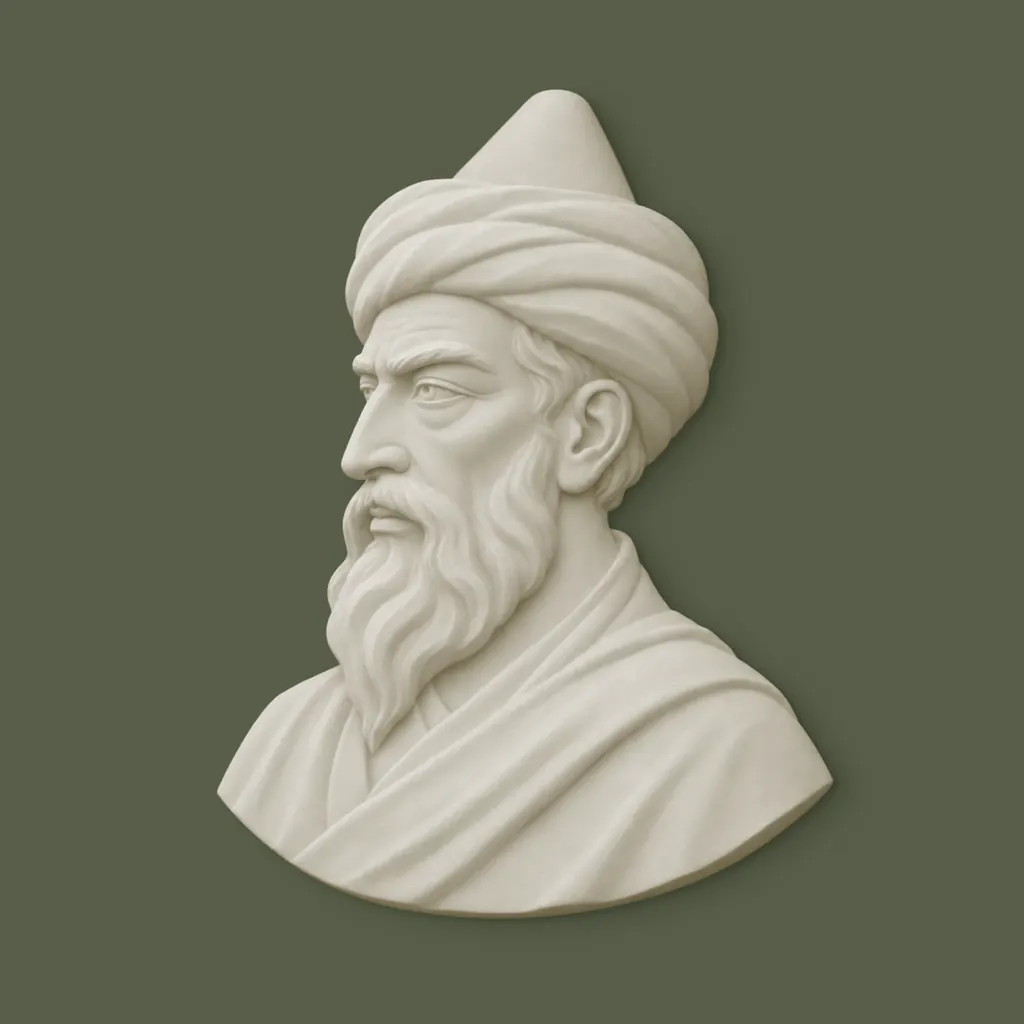
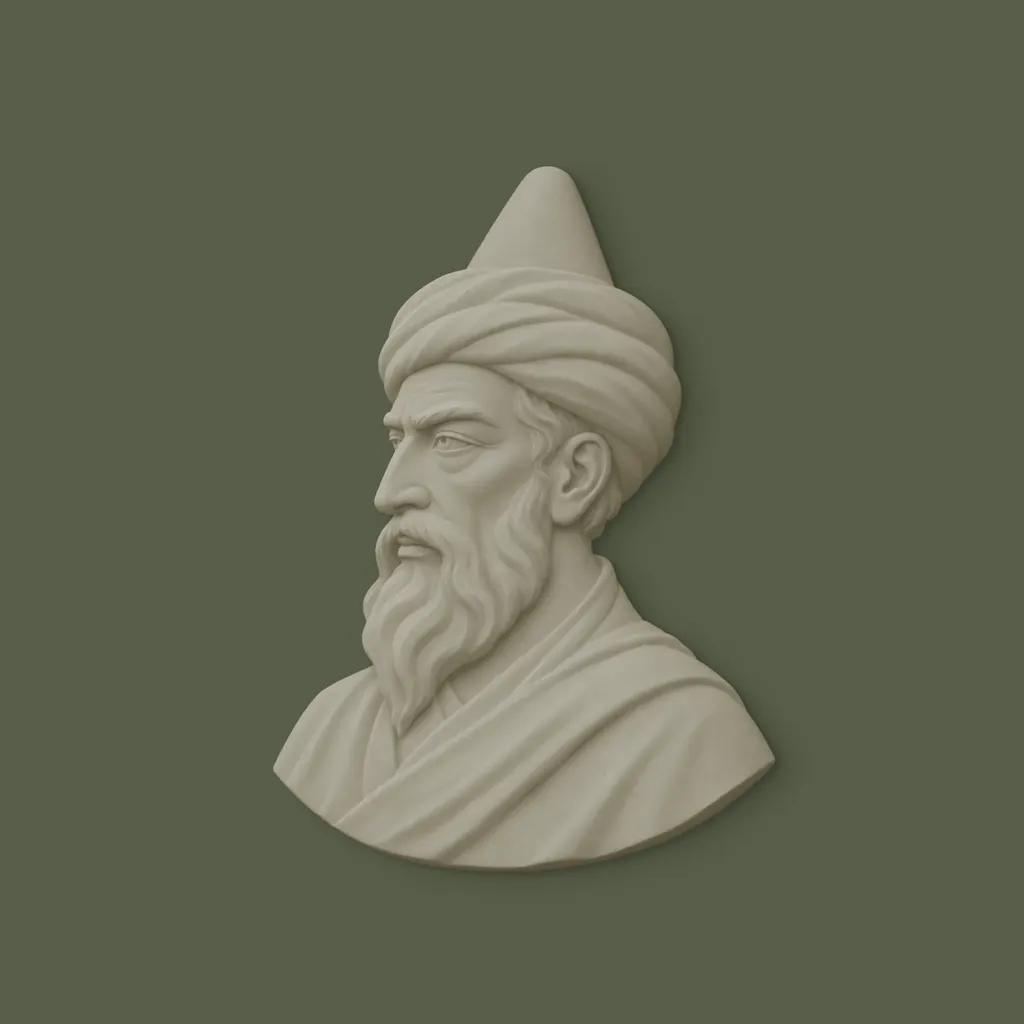
Replace Saeb light portrait (1.0.8)
Claude-Session: https://claude.ai/code/session_01NEEAouHJjKu3AvG8UKAw2t

Changed region(s): [[0.1875, 0.0625, 0.8125, 0.9062]]

diff --git a/js/app.js b/js/app.js
@@ -1577,7 +1577,7 @@ async function route(keepScroll = false) {
   if (!keepScroll) (view === 'poem' && sheetEl ? sheetEl.querySelector('.psheet') : main).focus({ preventScroll: true });
 }
 // Site version, shown very small in the bottom-right corner, in the menu and in «درباره». Bump it with each release.
-export const VERSION = '1.0.7';
+export const VERSION = '1.0.8';
 {
   const v = document.createElement('div');
   v.className = 'site-ver'; v.setAttribute('aria-hidden', 'true');

diff --git a/sw.js b/sw.js
@@ -1,5 +1,5 @@
 // Service worker: app shell is precached; poem data (immutable, pinned commit) is cached on first read.
-const SHELL = 'sp-shell-v145';
+const SHELL = 'sp-shell-v146';
 const DATA = 'sp-data-v1';
 // Every portrait (light and dark) and the faceless bust: fetched quietly after install, so the wall, the poet pages
 // and «کتابخانهٔ من» show their pictures offline too. A failed one never blocks the install.
